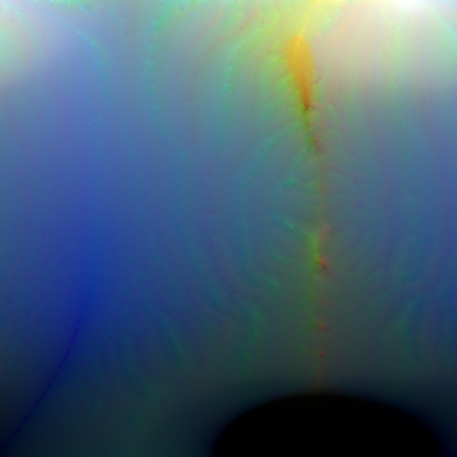
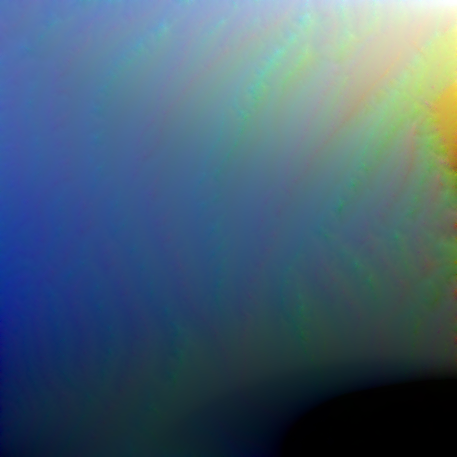
arguments for blur border - make x reflect for image example (no reason for circular there)

diff --git a/plas.py b/plas.py
@@ -92,20 +92,20 @@ def l2_dist(a, b):
     return distance_with_batch_dim(a, b).sum().item()
 
 
-def low_pass_filter(img, filter_size_x, filter_size_y):
+def low_pass_filter(img, filter_size_x, filter_size_y, border_type_x, border_type_y):
 
     blurred_x = kornia.filters.gaussian_blur2d(
         img.unsqueeze(0),
         kernel_size=(1, filter_size_x),
         sigma=(filter_size_y, filter_size_x),
-        border_type="reflect",
+        border_type=border_type_x,
     ).squeeze(0)
 
     blurred_xy = kornia.filters.gaussian_blur2d(
         blurred_x.unsqueeze(0),
         kernel_size=(filter_size_y, 1),
         sigma=(filter_size_y, filter_size_x),
-        border_type="reflect",
+        border_type=border_type_y,
     ).squeeze(0)
 
     return blurred_xy
@@ -337,11 +337,15 @@ def reorder_plas(
     min_block_size,
     filter_size_x,
     filter_size_y,
+    border_type_x,
+    border_type_y,
     improvement_break,
     pbar,
 ):
     # Filter the map vectors using the actual filter radius
-    target = low_pass_filter(params, filter_size_x, filter_size_y)
+    target = low_pass_filter(
+        params, filter_size_x, filter_size_y, border_type_x, border_type_y
+    )
 
     sidelen = params.shape[1]
 
@@ -482,8 +486,21 @@ def radius_seq(max_radius, radius_update):
 
 
 def sort_with_plas(
-    params, min_block_size=16, improvement_break=1e-5, seed=None, verbose=False
+    params,
+    min_block_size=16,
+    improvement_break=1e-5,
+    border_type_x="circular",
+    border_type_y="reflect",
+    seed=None,
+    verbose=False,
 ):
+    """ Sorts a set of parameters in a 2xn grid using the Parallel Linear Assignment Sorting (PLAS) algorithm.
+
+    Args:
+        border_type_x/y (str): Border for the Gaussian blur that is performed to create the targets for sorting.
+        The expected modes are: 'constant', 'reflect', 'replicate' or 'circular' (kornia gaussian_blur2d border_type).
+        x defaults to 'circular', y defaults to 'reflect': this allows for seamless resampling 1D data into square 2D grids.
+    """
 
     if seed is not None:
         torch.manual_seed(seed)
@@ -526,6 +543,8 @@ def sort_with_plas(
                 min_block_size,
                 filter_size_x,
                 filter_size_y,
+                border_type_x,
+                border_type_y,
                 improvement_break,
                 pbar=pbar,
             )

diff --git a/sort_rgb_img.py b/sort_rgb_img.py
@@ -40,7 +40,7 @@ def sort_image(img_path, shuffle):
     # reshape the image to be a square
     img_trunc_shuf_sq = img_trunc.reshape(-1, sidelen, sidelen)
 
-    sorted_img, grid_indices = sort_with_plas(img_trunc_shuf_sq, improvement_break=1e-4, verbose=True)
+    sorted_img, grid_indices = sort_with_plas(img_trunc_shuf_sq, improvement_break=1e-4, border_type_x="reflect", border_type_y="reflect", verbose=True)
 
     output_file = os.path.basename(img_path).split(".")[0]
     if shuffle:
